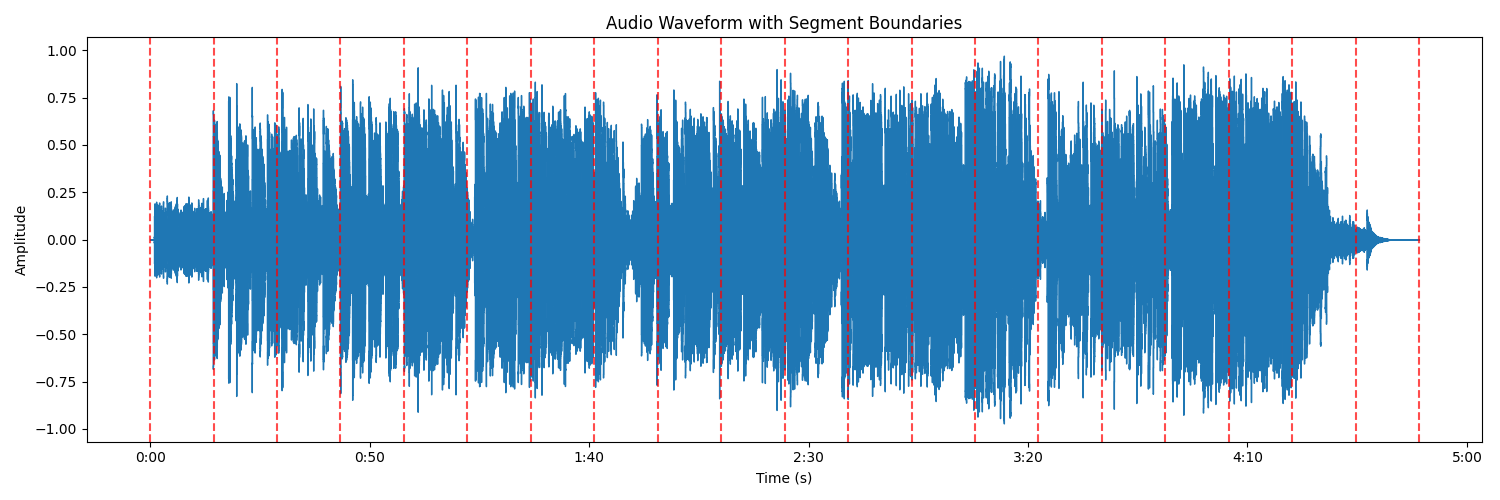
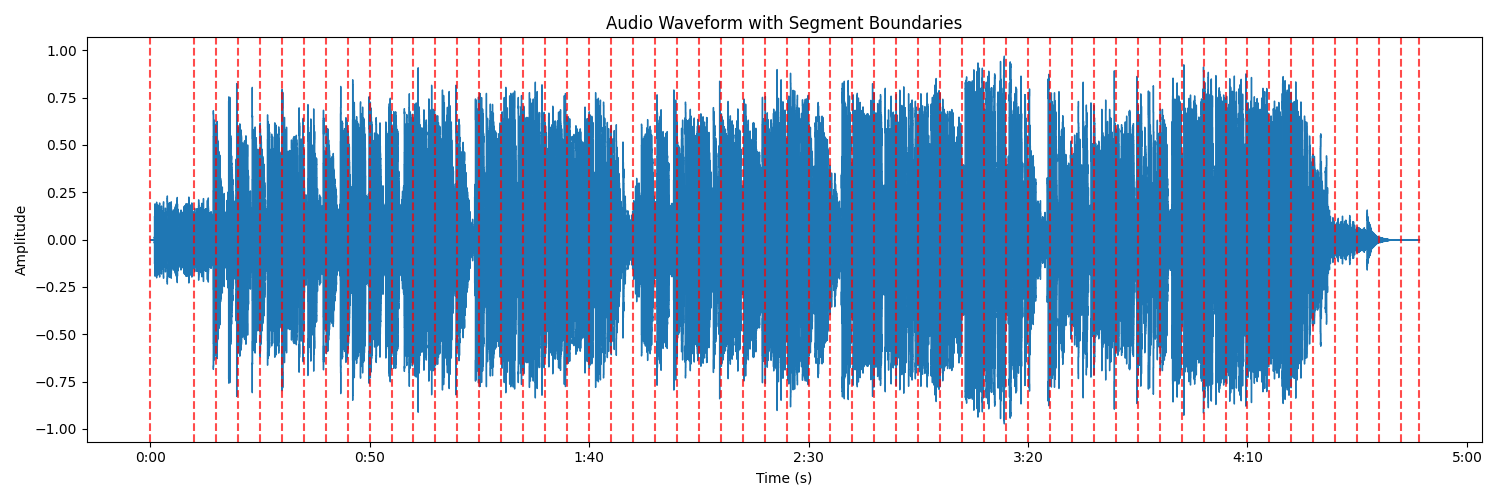
Add simple segmentation method

diff --git a/src/audio_segmentation.py b/src/audio_segmentation.py
@@ -10,47 +10,47 @@ class AudioSegmenter:
     def __init__(self):
         pass
 
-    def detect_segments(self, audio_file, method='mfcc', 
+    def detect_segments(self, audio_file, method='simple', 
                          novelty_kernel_size=31, novelty_threshold=0.15,
-                         min_segment_length=3.0, max_segment_length=15.0):
+                         min_segment_length=3.0, max_segment_length=15.0,
+                         simple_segment_length=10.0, simple_overlap=5.0):
         """
         Segment audio file based on content changes using various methods
         
         Parameters:
         - audio_file: path to audio file
-        - method: segmentation method ('novelty', 'beats', or 'mfcc')
+        - method: segmentation method ('novelty', 'beats', 'mfcc', or 'simple')
         - novelty_kernel_size: kernel size for novelty detection
         - novelty_threshold: threshold for peak picking
         - min_segment_length: minimum segment length in seconds
         - max_segment_length: maximum segment length in seconds
+        - simple_segment_length: length of segments for 'simple' method
+        - simple_overlap: overlap between segments for 'simple' method
         
         Returns:
         - segment_boundaries: list of segment start times in seconds
         """
         # Load audio
         y, sr = librosa.load(audio_file)
+        audio_duration = librosa.get_duration(y=y, sr=sr)
         
         segment_boundaries = [0]  # Start with beginning of file
         
         if method == 'novelty':
-            # Compute mel spectrogram
+            # [Previous novelty method implementation remains the same]
+            # Compute spectral novelty and find boundaries
             S = librosa.feature.melspectrogram(y=y, sr=sr)
             S_db = librosa.power_to_db(S, ref=np.max)
             
-            # Compute spectral novelty
             novelty = librosa.onset.onset_strength(
                 y=y, sr=sr, 
                 hop_length=512,
                 aggregate=np.median
             )
             
-            # Apply Gaussian smoothing
             novelty_smooth = gaussian_filter1d(novelty, sigma=2)
-            
-            # Normalize
             novelty_smooth = normalize(novelty_smooth.reshape(1, -1))[0]
             
-            # Peak picking
             peaks = librosa.util.peak_pick(
                 novelty_smooth, 
                 pre_max=30, post_max=30, 
@@ -58,30 +58,25 @@ class AudioSegmenter:
                 delta=novelty_threshold, wait=1
             )
             
-            # Convert peak indices to time
             peak_times = librosa.frames_to_time(peaks, sr=sr, hop_length=512)
             segment_boundaries.extend(peak_times)
             
         elif method == 'beats':
-            # Use beat tracking for segmentation
+            # [Previous beats method implementation remains the same]
             tempo, beats = librosa.beat.beat_track(y=y, sr=sr)
             beat_times = librosa.frames_to_time(beats, sr=sr)
             
-            # Use beats to define segment boundaries (e.g., every 4 or 8 beats)
             segment_boundaries.extend(beat_times[::4])
             
         elif method == 'mfcc':
-            # Use MFCC change for segmentation
+            # [Previous MFCC method implementation remains the same]
             mfccs = librosa.feature.mfcc(y=y, sr=sr, n_mfcc=13)
             
-            # Calculate delta features
             delta = np.sum(np.abs(librosa.feature.delta(mfccs)), axis=0)
             delta_smooth = gaussian_filter1d(delta, sigma=2)
             
-            # Normalize
             delta_smooth = normalize(delta_smooth.reshape(1, -1))[0]
             
-            # Peak picking
             peaks = librosa.util.peak_pick(
                 delta_smooth, 
                 pre_max=30, post_max=30, 
@@ -89,12 +84,22 @@ class AudioSegmenter:
                 delta=novelty_threshold, wait=1
             )
             
-            # Convert peak indices to time
             peak_times = librosa.frames_to_time(peaks, sr=sr, hop_length=512)
             segment_boundaries.extend(peak_times)
         
+        elif method == 'simple':
+            # New simple segmentation method with overlapping segments
+            current_start = 0
+            while current_start < audio_duration:
+                current_end = min(current_start + simple_segment_length, audio_duration)
+                segment_boundaries.append(current_end)
+                
+                # Move start point by the non-overlapping portion
+                current_start += simple_segment_length - simple_overlap
+        
         # Add end of file
-        segment_boundaries.append(librosa.get_duration(y=y, sr=sr))
+        if segment_boundaries[-1] != audio_duration:
+            segment_boundaries.append(audio_duration)
         
         # Enforce minimum and maximum segment lengths
         filtered_boundaries = [segment_boundaries[0]]

diff --git a/src/semantic_search.py b/src/semantic_search.py
@@ -14,7 +14,6 @@ class SemanticAudioSearch:
         
         Parameters:
         - clap_model: optional pre-initialized CLAP model
-        - transcriber: AudioTranscriber instance for generating text transcriptions
         - use_cuda: whether to use CUDA if available
         """
         self.query_expander = QueryExpander()
@@ -23,14 +22,14 @@ class SemanticAudioSearch:
         self.transcriber = AudioTranscriber()
         
     def query_with_expansion(self, audio_file, text_query, 
-                             num_expansions=3, 
-                             segment_method='mfcc',
+                             num_expansions=0, 
+                             segment_method='simple',
                              visualize=False,
                              top_k=3,
                              fusion_method='weighted_average',
                              weights=None,
                              use_transcription=True,
-                             transcription_weight=0.5):
+                             transcription_weight=1):
         """
         Find audio segments that match a text query, using query expansion and optional transcription
         
@@ -67,14 +66,14 @@ class SemanticAudioSearch:
         transcription_similarities = []
         transcriptions = []
 
-        print(use_transcription, self.transcriber)
+        # print(use_transcription, self.transcriber)
         if use_transcription and self.transcriber:
             transcription_similarities, transcriptions = self._calculate_transcription_similarities(
                 segments, sample_rate, expanded_queries
             )
 
         print(transcription_similarities)
-        print(transcriptions)
+        # print(transcriptions)
         
         # Fuse similarity scores
         if weights is None:
@@ -111,7 +110,9 @@ class SemanticAudioSearch:
         import os
 
         # print(transcriptions)
-        top_transcriptions = [transcriptions[i] for i in top_indices]
+        if transcriptions:
+            top_transcriptions = [transcriptions[i] for i in top_indices]
+            print(top_transcriptions)
         
         # Per-query scores
         per_query_scores = self._generate_per_query_scores(
@@ -168,10 +169,10 @@ class SemanticAudioSearch:
             torchaudio.save(f'tmp/segment_{i}.wav', segment, sample_rate)
 
         # Transcribe segments
-        print("Transcribing segments...")
         transcriptions = []
+        import tqdm
 
-        for i in range(len(segments)):
+        for i in tqdm.tqdm(range(len(segments)), desc="Transcribing segments"):
             audio, sr = librosa.load(f'tmp/segment_{i}.wav', sr=sample_rate)
             transcription = (self.transcriber.transcribe_segment(torch.tensor(audio), sr))
             transcriptions.append(transcription)

diff --git a/main.py b/main.py
@@ -1,5 +1,4 @@
 from src.semantic_search import SemanticAudioSearch
-from src.simple_search import SimpleAudioSearch
 from utils.visualization import visualize_segmentation
 from utils.file_operations import save_segments
 
@@ -7,9 +6,9 @@ def main():
     searcher = SemanticAudioSearch(use_cuda=True)
    
     audio_file = "../songs/sly.mp3"
-    text_query = "settled down and found a girl"
+    text_query = "Never mind I'll find someone like you"
    
-    # Unpack the dictionary returned by query_with_expansion
+    # Set use_transcription to True only for transcription/lyrics based queries
     results = searcher.query_with_expansion(
         audio_file,
         text_query,
@@ -17,7 +16,6 @@ def main():
         visualize=True
     )
 
-    # Extract individual components from the results dictionary
     top_segments = results['top_segments']
     top_indices = results['top_indices']
     top_similarities = results['top_similarities']
@@ -25,11 +23,11 @@ def main():
     expanded_queries = results['expanded_queries']
     per_query_scores = results['per_query_scores']
     sample_rate = results['sample_rate']
-    transcriptions = results.get('transcriptions', [])  
+    matched_transcriptions = results.get('transcriptions', [])  
     
     visualize_segmentation(audio_file, boundaries)
     save_segments(top_segments, top_indices, boundaries, sample_rate)
-    print(transcriptions)
+    # print(matched_transcriptions)
 
 if __name__ == "__main__":
     main()
